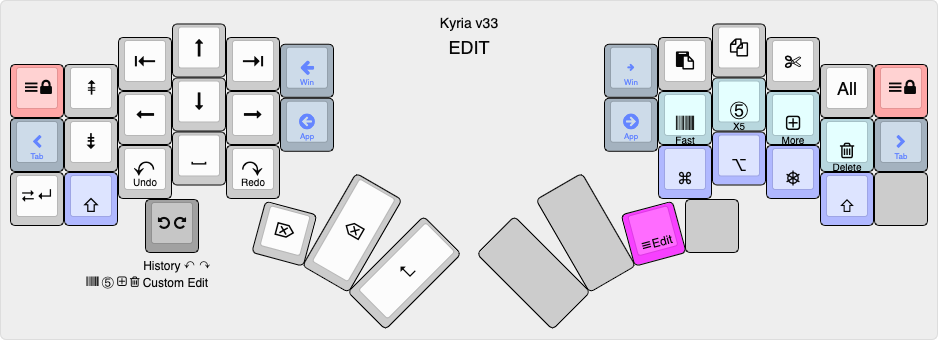
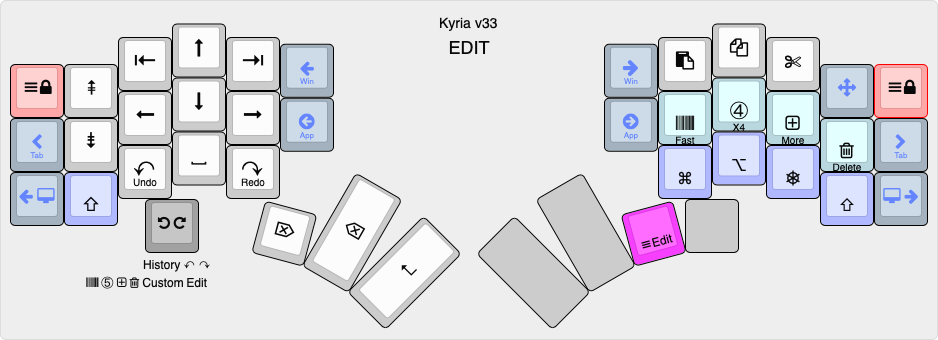
Updated docs for recent layout changes

diff --git a/kyria-rsthd-prime/README.md b/kyria-rsthd-prime/README.md
@@ -28,16 +28,13 @@ The alphabetic layout in this keymap was originally based on [RSTHD](https://xsz
 
 When I originally started making changes to RSTHD, I called it RSTHD'. The `'`, pronounced "prime", is [used in maths](https://en.wikipedia.org/wiki/Prime_(symbol)#Use_in_mathematics,_statistics,_and_science) to indicate a derivative of the named thing. The layout still very much retains its RSTHD DNA despite all the changes. I figure calling it *RSTHD/Prime* acknowledges its origin while still indicating that it's different.
 
-If you're interested in a standard implementation of RSTHD on the Kyria, see my [Kyria Refactored](https://github.com/frogm0uth/keyboard-firmware/tree/master/kyria-refactored) keymap. See also the links to other layouts at the bottom of the page.
-
-
 ### Goals
 
 Coming from a "slab" QWERTY keyboard to a programmable ergo split, I wanted to optimize:
 
 - Cross-platform portability. I need to switch between macOS and Windows frequently. The differences in shortcuts and location of Ctrl/Cmd keys was frustrating and programmable keyboards seemed to be the answer.
 - Comfort. For me, that largely means de-emphasizing the inner index columns.
-- Better support for ambidextrous use of the trackpad or mouses (I use two). That is, it should be possible to do things like cut-copy-paste from either hand alone.
+- Better support for ambidextrous use of the trackpad or mouses (I use two). For example, it should be possible to do things like cut-copy-paste from either hand alone.
 
 Typing speed and reducing the number of keys on the keyboard are not important goals to me.
 
@@ -65,33 +62,34 @@ The layers have OS-specific shortcuts in various places. The platform (macOS, Wi
 
 [KLE link](http://www.keyboard-layout-editor.com/#/gists/fd8f2b651f6708b30a515ef4f236e277)
 
-The alpha layout aims to reduce lateral finger movement on the index finger. In fact the lower key of the inner column has been completely removed in this version. A slightly older version performed very well in an [analyzer](docs/prime-on-the-analyzer.md), with low SFU (same finger utilization) stats and low travel distance.
+The alpha layout aims to reduce lateral finger movement on the index finger. In fact the lower key of the inner column has been completely removed in this version. A slightly older version performed very well in an [analyzer](docs/prime-on-the-analyzer.md), with low SFU (same finger utilization) stats and low travel distance. For absolute minimum SFBs, swap P and F.  For lower left pinky usage (but higher inner index), swap V and J.
 
 Some of the punctuation keys use non-standard shift mappings. See `shift_defs.h`.
 
-Except for Shift, there are no modifiers on the alpha layer. To access them, use the SYMS or EDIT layer, hold the modifiers down, then release the layer key. (This is a bit like Callum mods except it doesn't use a one-shot. It's not exactly how I wanted to do it, but it was easy to implement. I'll do a writeup on it some other time.)
+Except for Shift, there are no modifiers on the alpha layer. To access them, use the SYMS or EDIT layer, hold the modifiers down, then release the layer key. (This is a bit like Callum mods except it doesn't use one-shots. It's not exactly how I wanted to do it, but it was easy to implement.)
 
 There are a number of combos on this layer, defined with a bunch of macros to reduce boilerplate. I have a userspace implementation called "[comboroll](docs/comborolls.md)" to avoid timing issues with QMK's overlapping combos. See `combo_defs.h` for combo definitions.
 
-This key layout works best with the combos or comborolls described at the link above. I recommend at a minimum setting up a combo for ER on the right hand. If that works out, add SP, ES, ED, and VE, then consider the rest of the combos in the [comborolls](docs/comborolls.md) note.
-
-For absolute minimum SFBs *without* combos, swap P and F.  For lower left pinky usage (but higher inner index), swap V and J.
+This layout works best with comborolls as described at the link above. I recommend at a minimum setting up a combo for ER on the right hand. If that works out, add SP, ES, ED, and VE, then consider the rest of the combos in the [comborolls](docs/comborolls.md) note.
 
 ### SYMS
 
-Activated by the left thumb (hold).
+Activated by the left thumb.
 
 ![kyria-rsthd-prime-syms](docs/images/kyria-rsthd-prime-syms.png)
 
 [KLE link](http://www.keyboard-layout-editor.com/#/gists/1fe2cfee9a3cba7f4a122ce6527332ab)
 
-Unshifted, this layer contains most of the punctuation keys. I've arranged them so that many common (in programming) two-letter sequences can be typed with an inward roll. For example: `{% %} <% %> </ /> => ~/`.
+Unshifted, this layer contains the rest of the punctuation characters. I've arranged them so that many common (for me) two-letter sequences can be typed with an inward roll. For example: `{% %} <% %> </ /> => ~/`. Additional sequences such as `<?` `?>`  `!=` `);` are accessed with comborolls, to avoid flipping between the alpha and syms layers.
 
 The ten digits are accessed with Shift, akin to [Programmer Dvorak](https://www.kaufmann.no/roland/dvorak/), but arranged in a 3x3 numpad-like grid.
 
+Cut, copy and paste are chorded on the left hand top row.
+
+
 ### EDIT
 
-Activated by the right thumb (hold).
+Activated by the right thumb.
 
 ![kyria-rsthd-prime-edit](docs/images/kyria-rsthd-prime-edit.png)
 
@@ -102,16 +100,16 @@ This layer extends the idea of platform-independent shortcuts to a complete laye
 Modifiers are on the right hand. If one of the standard modifiers (Shift, Ctrl, Alt, Gui) is held, the emitted code is just the normal modifier + keycode. The special modifiers on the home row act as follows:
 
 - **Delete** makes the action delete instead of moving.
-- **More** makes the key do "more" : left and right move a word left or right; home and end move to the start and end of a paragraph; up and down move a physical page up and down (mostly for Word); page up/down move to the start and end of the document.
-- **X5** makes the action repeat 5 times on every keypress or repeat.
+- **More** makes the key do "more" : left and right move a word left or right; home and end move to the start and end of a paragraph; page up/down move to the start and end of the document. Up and down are an exception: these activate mouse wheel scrolling.
+- **X4** makes the action repeat 4 times on every keypress or repeat.
 - **Fast** removes the initial repeat delay and repeats at a faster interval.
 
 All actions have auto-repeat. You can change the special modifiers while holding down a navigation key and the action changes accordingly.
 
-Select all, cut, copy and paste are chorded on the right hand top row.
+Cut, copy and paste are chorded on the right hand top row.
 
 ### META
-Activated by either pinky (hold).
+Activated by either pinky.
 
 ![kyria-rsthd-prime-meta](docs/images/kyria-rsthd-prime-meta.png)
 
@@ -124,7 +122,7 @@ This layer is also how the FUNC and SNAP layers are accessed.
 
 ### FUNC
 
-Activated by the left thumb from the META layer (hold).
+Activated by the left thumb from the META layer.
 
 ![kyria-rsthd-prime-func](docs/images/kyria-rsthd-prime-func.png)
 
@@ -136,7 +134,7 @@ Three mouse buttons are available on the right thumb.
 
 ### SNAP
 
-Activated by the right thumb from the META layer (hold).
+Activated by the right thumb from the META layer.
 
 ![kyria-rsthd-prime-snap](docs/images/kyria-rsthd-prime-snap.png)
 
@@ -150,7 +148,7 @@ The encoder is used to control the backlight LEDs and OLED brightness (depending
 
 ### CURS and FLIP
 
-Activated by the right thumb (hold).
+Activated by the right thumb. Experimental.
 
 ![kyria-rsthd-prime-curs](docs/images/kyria-rsthd-prime-curs.png)
 
@@ -182,7 +180,6 @@ ln -s /path/to/workingdir/keyboard-firmware/kyria-rsthd-prime .
 qmk compile -kb splitkb/kyria/rev1 -km kyria-rsthd-prime
 ```
 
-(My Kyria is a rev1, if you have a rev2 then change the compile command above. I don't know if code changes are needed.)
 
 ### RSTHD variants and similar layouts
 - [T-34](https://www.jonashietala.se/blog/2021/06/03/the-t-34-keyboard-layout/) (swaps E and space)

diff --git a/kyria-rsthd-prime/docs/prime-on-the-analyzer.md b/kyria-rsthd-prime/docs/prime-on-the-analyzer.md
@@ -6,13 +6,12 @@ Keyboard analyzers are a useful tool for working on a custom keymap. They do hav
 
 <!--ts-->
    * [SteveP's analyzer](#steveps-analyzer)
-      * [Fitting the keymap into the analyzer](#fitting-the-keymap-into-the-analyzer)
-      * [Heatmap](#heatmap)
-      * [Finger distribution](#finger-distribution)
-      * [SFUs](#sfus)
-      * [Travel distance](#travel-distance)
-      * [Summary scores](#summary-scores)
-   * [keygen](#keygen)
+   * [Fitting the keymap into the analyzer](#fitting-the-keymap-into-the-analyzer)
+   * [Heatmap](#heatmap)
+   * [Finger distribution](#finger-distribution)
+   * [SFUs](#sfus)
+   * [Travel distance](#travel-distance)
+   * [Summary scores](#summary-scores)
 <!--te-->
 
 ## SteveP's analyzer
@@ -25,12 +24,12 @@ I've not included code samples because the analyzer counts leading white space. 
 
 I compare against a number of other built-in layouts: RSTHD, Colemak thumbshift, Colemak-DH thumbshift, and MT-GAP thumbshift. They generally perform best of all the pre-loaded layouts (that I've found). I also include the newer [Hands Down Gold](https://sites.google.com/alanreiser.com/handsdown/home/hands-down-neu) layout in the comparisons, as it has a letter (T) on a thumb key and the author has helpfully provided a JSON file.
 
-### Fitting the keymap into the analyzer
+## Fitting the keymap into the analyzer
 The actual keymap can't be fully expressed in the analyzer. Ignoring combos, I also have a number of characters that are duplicated in the keymap, so for the analyzer I've picked the likely best location.
 
 You can load the [JSON](kyria-rsthd-prime-v32.json) into the analyser yourself to have a closer look.
 
-### Heatmap
+## Heatmap
 
 Here is the heatmap (Alice):
 
@@ -38,7 +37,7 @@ Here is the heatmap (Alice):
 
 As you can see, nice tight symmetric distribution.
 
-### Finger distribution
+## Finger distribution
 
 Here is the finger usage distribution (Alice):
 
@@ -54,7 +53,7 @@ Comparing left-right hand usage, Prime is well balanced, slightly to the left wh
 
 The other layouts tested here (apart from RSTHD) are all biased more to the right. As they are all ergo layouts with thumb shift, they have space on one hand only. If using a slab keyboard with single space bar, a typist who uses both hands for Space would or could even out the left-right hand scores.
 
-### SFUs
+## SFUs
 
 SFU metrics are generally very low. On this analyzer, these are the results compared to other layouts with low SFUs:
 
@@ -68,7 +67,7 @@ Note 2: combos will reduce the actual SFUs. However, the same could be said for 
 
 Note 3: since writing this page, I've noticed another bug in the analyzer that makes the Prime results artificially low. If the corpus is `RAVISH`, the analyzer shows no SFUs, whereas there should be two because of the conflict between the shift and the pinky letters.
 
-### Travel distance
+## Travel distance
 
 The travel distance is low:
 
@@ -78,7 +77,7 @@ Note: SteveP's fork no longer outputs travel distance so I obtained these number
 
 Note also: All the other layouts use a number row; their travel distance would presumably be reduced by using a symbols layer (AltGr) to make the layout more compact.
 
-### Summary scores
+## Summary scores
 
 Here are the overall scores with other high-performing layouts (don't forget your grain of salt!):
 
@@ -87,15 +86,3 @@ Here are the overall scores with other high-performing layouts (don't forget you
 However, I've come to think that bench-racing keyboard layouts with a single score as above is not all that helpful. The analyzers have too many limitations and too many assumptions built in to be able to trust a simple scoring table like this. As noted above, there are also bugs that will skew the results.
 
 So, they are a very useful tool, but be careful how you interpret the results!
-
-## keygen
-
-**UNFINISHED**
-
-Keygen is the optimizer that generated RSTHD - unlike other analyzers, keygen can generate a layout for you! The author has since generated an alternate layout that groups E with the vowels rather than most of the consonants.
-
-Keygen looks only at the layout of the unshifted keys and ignores shift and any punctuation that is not present on an unshifted key. It does have the ability to examine and penalize sequences of up to three keys - in other words, it tries to optimize for inward or outward rolls.
-
-keygen can also be used purely as an analyzer. (More coming later)
-
-
